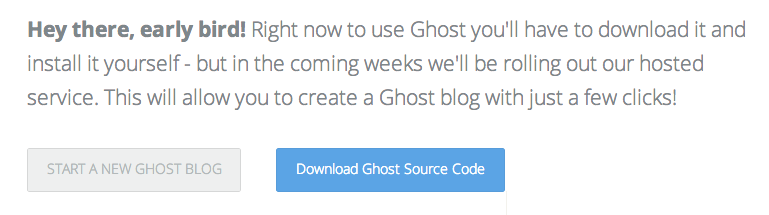
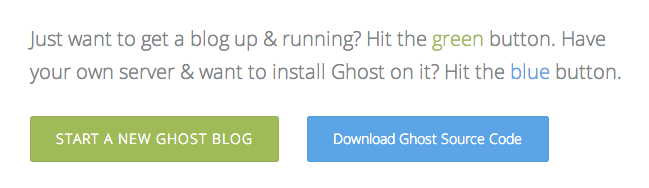
updates slides for Ghost 0.4
modified:   index.html
	modified:   lib/img/download.png
	deleted:    lib/img/hosted.png
	new file:   lib/img/start.png

diff --git a/index.html b/index.html
@@ -242,11 +242,11 @@
         </section>
         <section>
           <h2>Ghost hosted service</h2>
-          <img class="fragment" src="lib/img/hosted.png">
+          <img src="lib/img/start.png">
           <aside class="notes">
-            * Hosted service...but not yet
-            * Post went up end of last week and it's being rolled out to users slowly
-            * Pricing also went up at $5 a month for one blog, up to something like
+            * Hosted service
+            * Rolled out over Christmas
+            * Pricing $5 a month for one blog, up to something like
             $80 a month for 30 blogs
             * There will be a cap on number of view per plan
             * BUT a way of looking at it is that the hosted plans will be the main
@@ -267,7 +267,7 @@
 
         <section>
           <h1>Thanks!</h1>
-          <p><a href="http://mattfield.me">mattfield.me</a></p>
+          <p><a href="http://mattfield.github.io">mattfield.github.io</a></p>
         </section>
 			</div>
 
